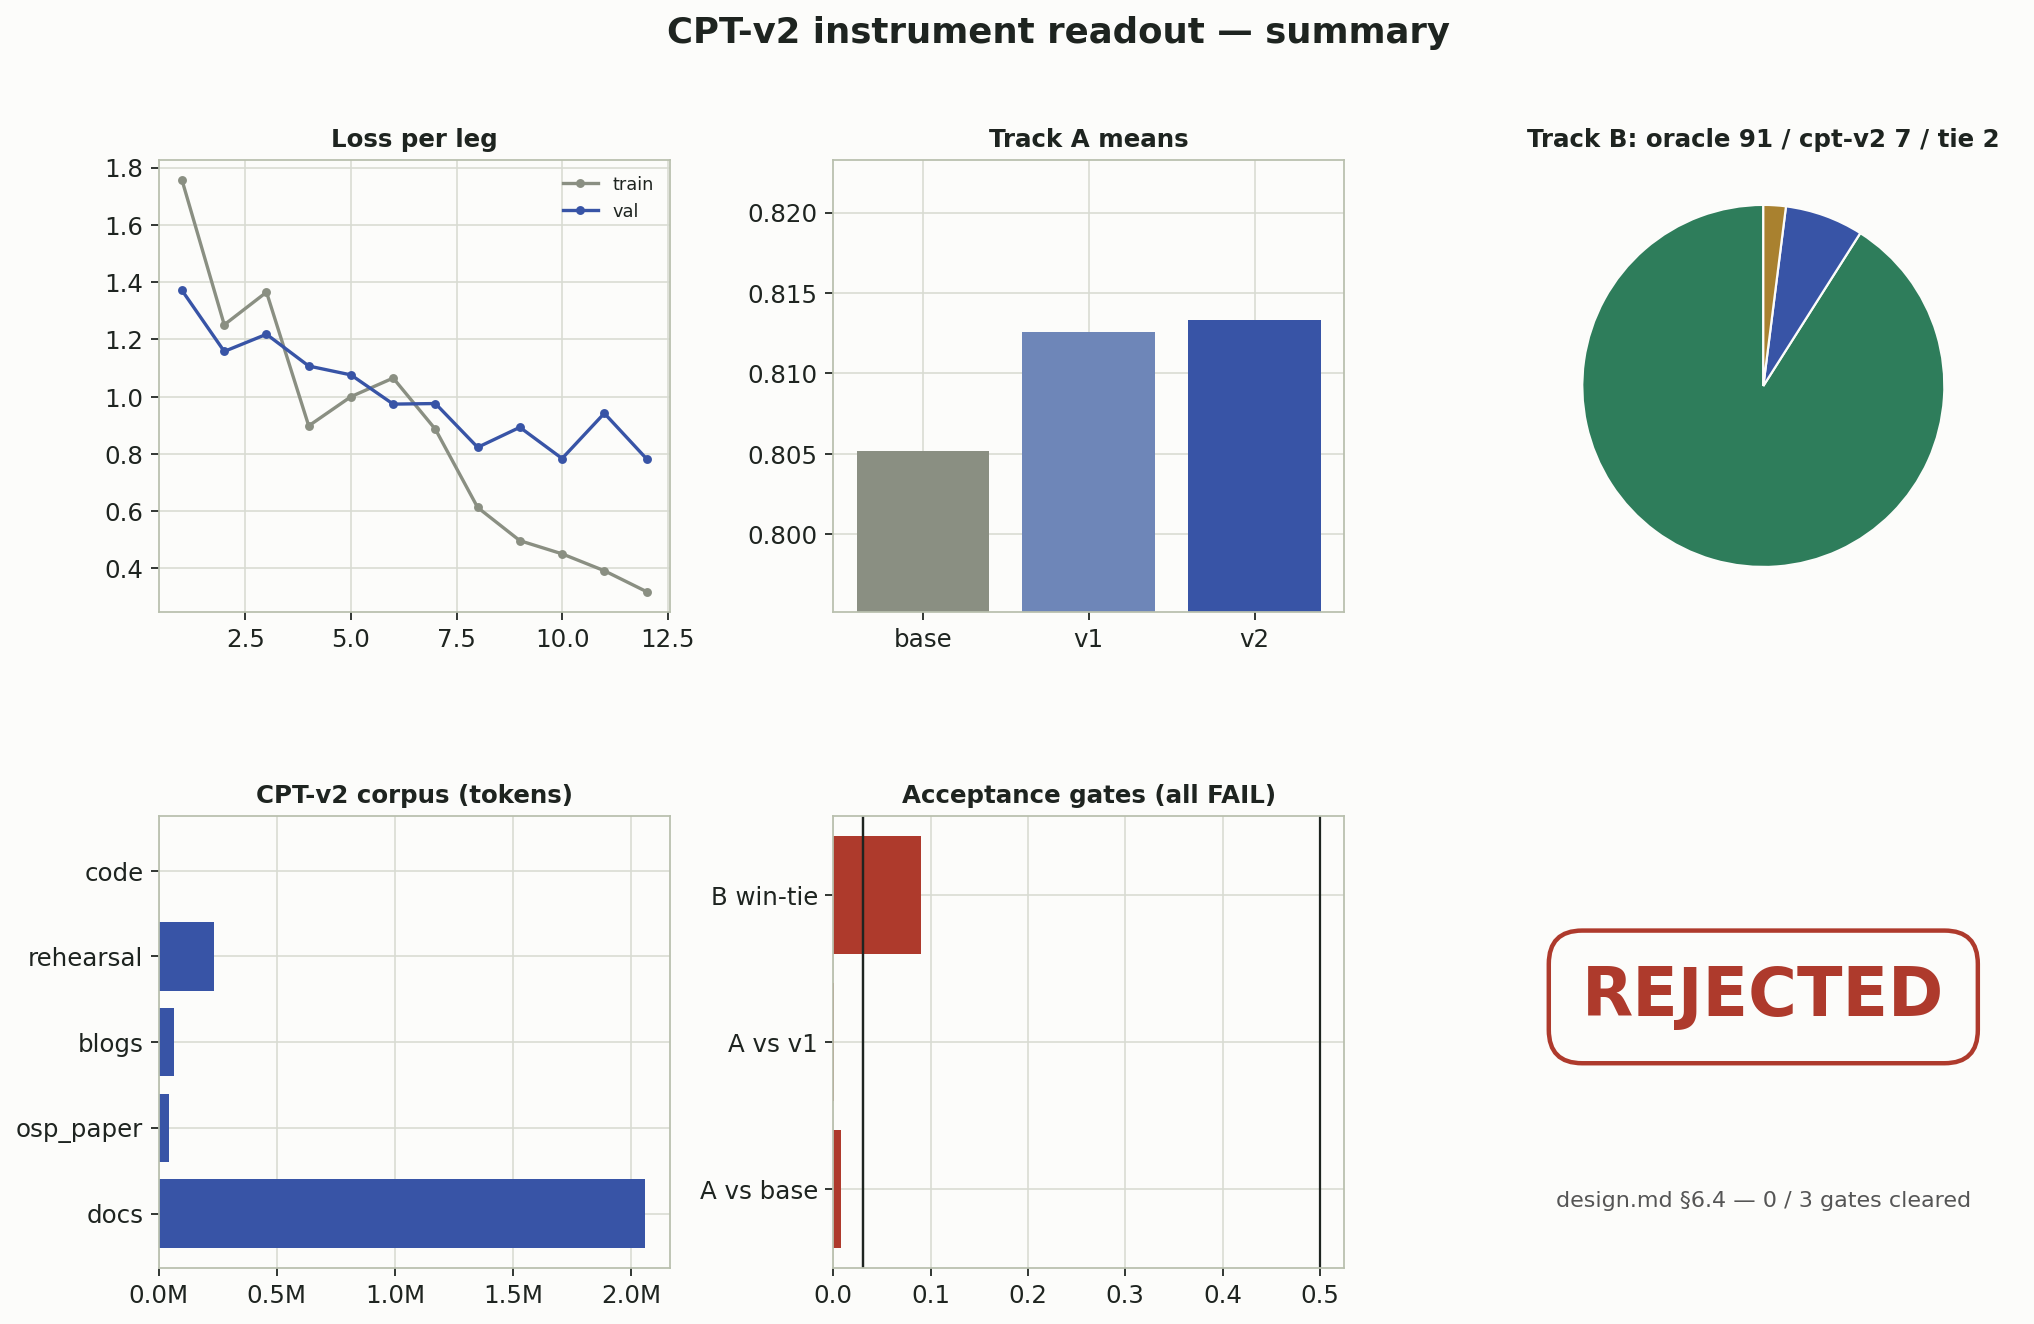
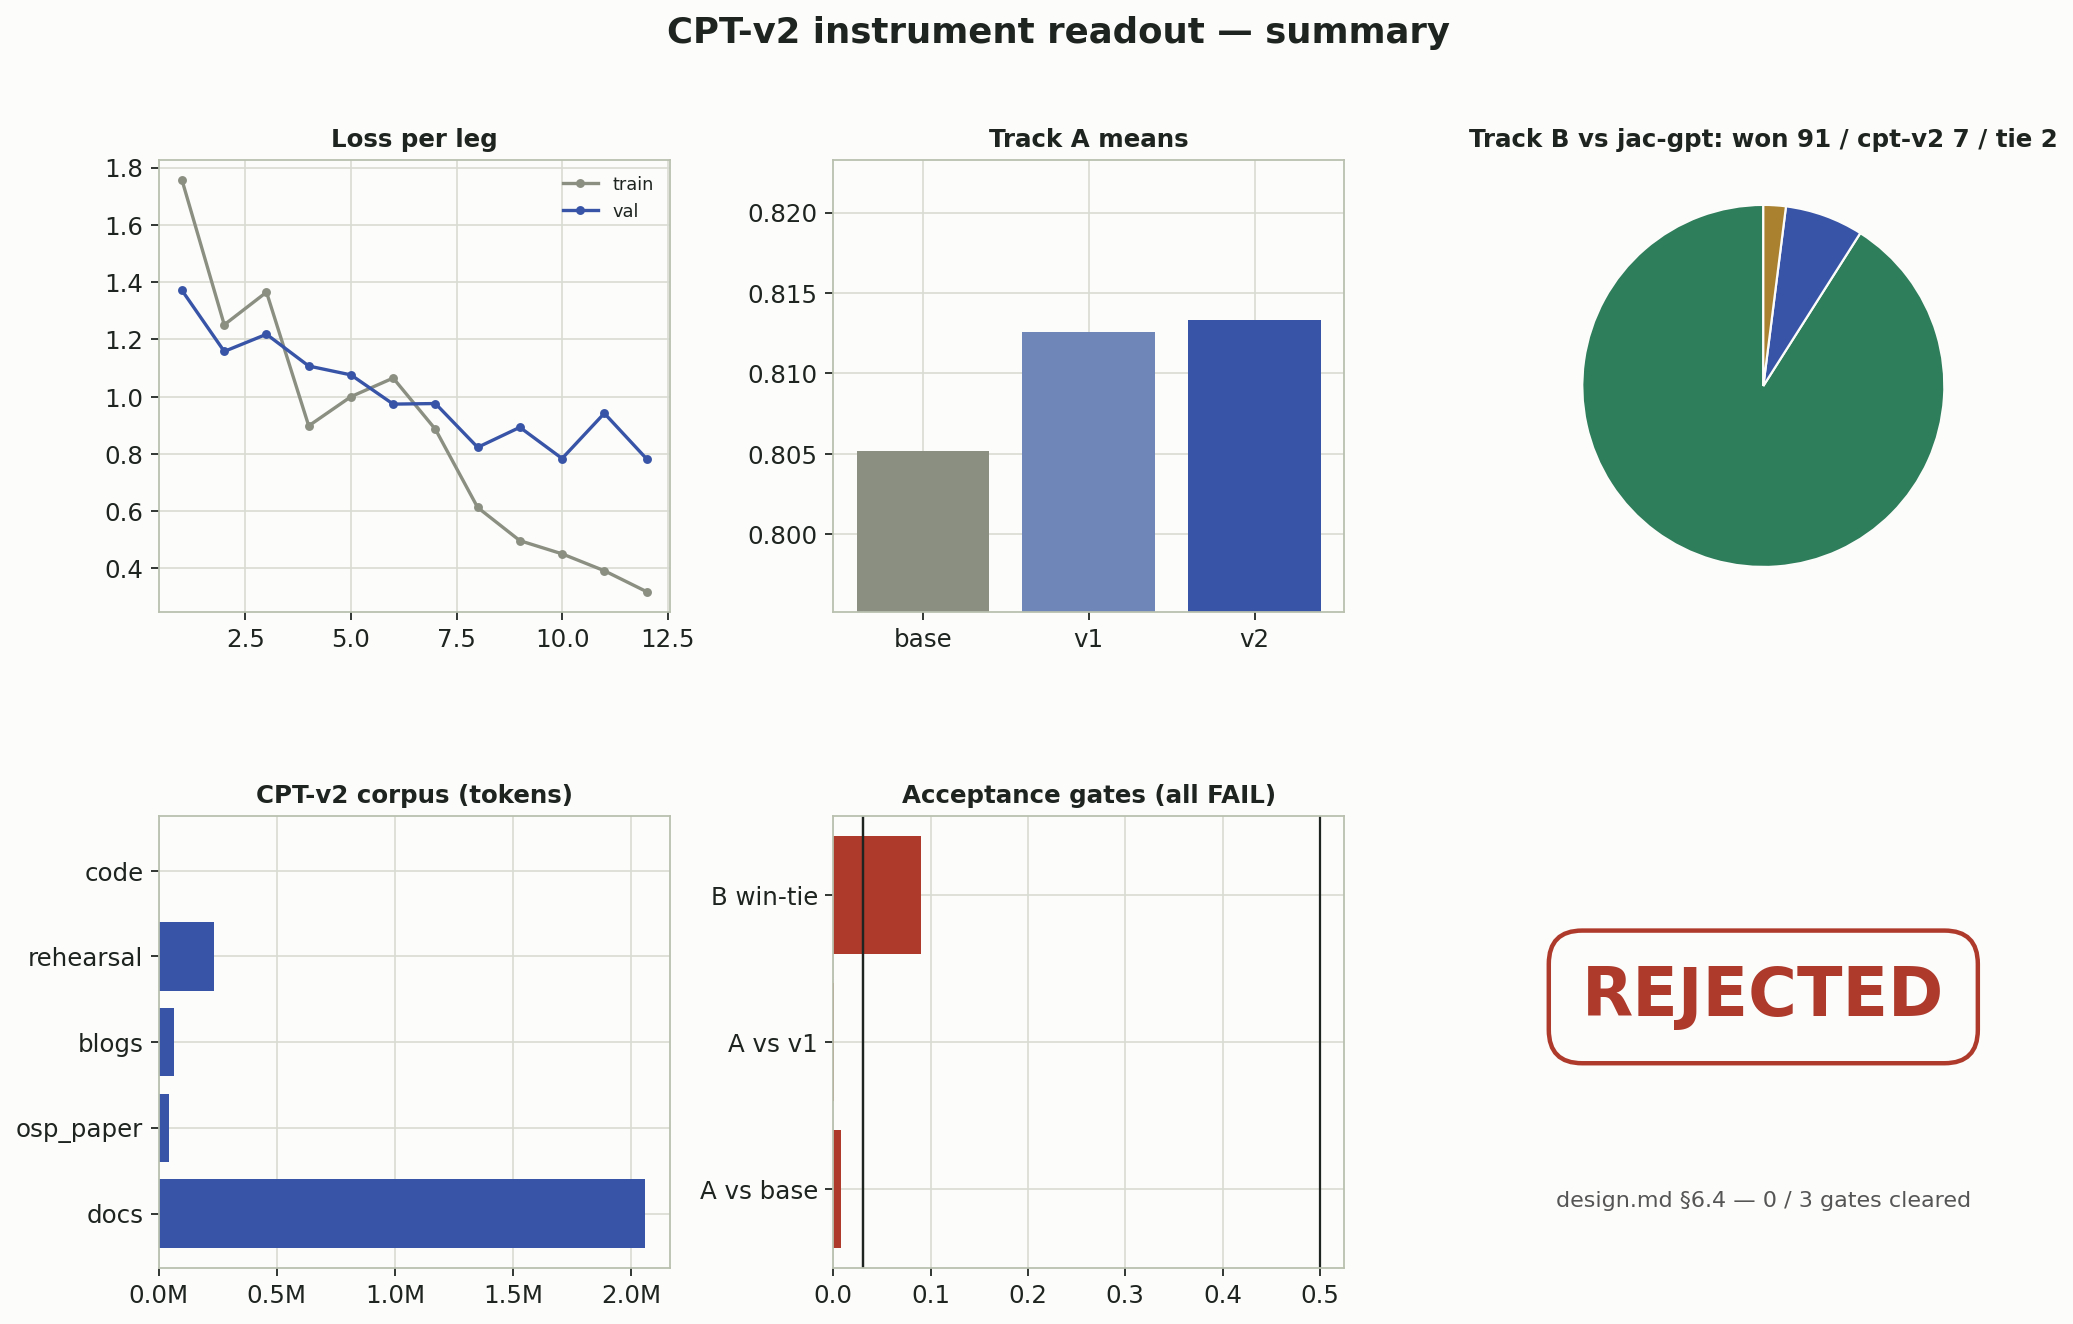
data: label jac-gpt explicitly + add 2 direct cpt-v2-vs-jac-gpt charts
Renamed generic 'oracle' labels to 'jac-gpt' across chart titles/axes/
legends so the comparison is explicit rather than implied. Added
21_gap_to_jacgpt.png (mean cosine distance from jac-gpt per model) and
22_cptv2_vs_jacgpt_head_to_head.png (both tracks, cpt-v2 vs jac-gpt only,
side by side) -- 22 charts total now.

diff --git a/03-new/cpt_train/eval_v2/make_charts.py b/03-new/cpt_train/eval_v2/make_charts.py
@@ -282,7 +282,7 @@ def chart_track_a_means(d):
     ax.hlines(req_v1, 0.65, 1.35, color=BAD, linestyle="--")
     ax.text(1.35, req_v1, f" need≥{req_v1:.4f}", color=BAD, va="center", fontsize=9)
     ax.set_ylim(min(vals) - 0.01, max(req_base, req_v1) + 0.015)
-    ax.set_ylabel("mean cosine-to-oracle")
+    ax.set_ylabel("mean cosine-to-jac-gpt")
     ax.set_title("Track A: mean cosine similarity vs. required +0.03 margin")
     save(fig, "10_track_a_means")
 
@@ -343,8 +343,8 @@ def chart_track_a_boxplot(d):
     for patch, color in zip(bp["boxes"], [BASE, V1, V2]):
         patch.set_facecolor(color)
         patch.set_alpha(0.75)
-    ax.set_ylabel("cosine-to-oracle score")
-    ax.set_title("Distribution of cosine-to-oracle scores, all 100 questions")
+    ax.set_ylabel("cosine-to-jac-gpt score")
+    ax.set_title("Distribution of cosine-to-jac-gpt scores, all 100 questions")
     save(fig, "14_track_a_boxplot")
 
 
@@ -360,8 +360,8 @@ def chart_track_a_scatter_v1_v2(d):
     ax.scatter(v1[~above], v2[~above], color=BASE, alpha=0.75, s=32, label=f"cpt-v1 wins ({(~above).sum()})")
     ax.set_xlim(lo, hi)
     ax.set_ylim(lo, hi)
-    ax.set_xlabel("cpt-v1 cosine-to-oracle")
-    ax.set_ylabel("cpt-v2 cosine-to-oracle")
+    ax.set_xlabel("cpt-v1 cosine-to-jac-gpt")
+    ax.set_ylabel("cpt-v2 cosine-to-jac-gpt")
     ax.set_title("Per-question cosine score: cpt-v1 vs cpt-v2 (points scatter evenly → coin flip)")
     ax.legend(loc="upper left", frameon=False)
     ax.set_aspect("equal")
@@ -375,7 +375,7 @@ def chart_track_a_scatter_v1_v2(d):
 def chart_track_b_outcome_bar(d):
     agg = d["track_b_agg"]
     total = agg["total"]
-    segs = [("oracle wins", agg["oracle_wins"], ORACLE), ("cpt-v2 wins", agg["cpt_v2_wins"], V2), ("ties", agg["ties"], TIE)]
+    segs = [("jac-gpt wins", agg["oracle_wins"], ORACLE), ("cpt-v2 wins", agg["cpt_v2_wins"], V2), ("ties", agg["ties"], TIE)]
     fig, ax = plt.subplots(figsize=(10, 2.4))
     left = 0
     for label, val, color in segs:
@@ -398,7 +398,7 @@ def chart_track_b_outcome_bar(d):
 def chart_track_b_pie(d):
     agg = d["track_b_agg"]
     vals = [agg["oracle_wins"], agg["cpt_v2_wins"], agg["ties"]]
-    labels = ["oracle wins", "cpt-v2 wins", "ties"]
+    labels = ["jac-gpt wins", "cpt-v2 wins", "ties"]
     colors = [ORACLE, V2, TIE]
     fig, ax = plt.subplots(figsize=(6.5, 6.5))
     wedges, _, autotexts = ax.pie(
@@ -418,7 +418,7 @@ def chart_honest_gap_scatter(d):
     ta_by_id = {row_id: row for row_id, row in d["track_a"].items()}
     lanes = {"oracle": 2, "tie": 1, "cpt_v2": 0}
     lane_colors = {"oracle": ORACLE, "tie": TIE, "cpt_v2": V2}
-    lane_labels = {"oracle": "oracle won (blind)", "tie": "tie", "cpt_v2": "cpt-v2 won (blind)"}
+    lane_labels = {"oracle": "jac-gpt won (blind)", "tie": "tie", "cpt_v2": "cpt-v2 won (blind)"}
     rng = np.random.default_rng(7)
     fig, ax = plt.subplots(figsize=(11, 5))
     outlier_id = "b003-q-any-inference"
@@ -437,7 +437,7 @@ def chart_honest_gap_scatter(d):
             ax.annotate("b003-q-any-inference: 0.9355 cosine\n(2nd-highest of all 100) — lost blind",
                         (cosine, lane + jitter), textcoords="offset points", xytext=(-160, 18), fontsize=9, fontweight="bold")
     ax.set_yticks(list(lanes.values()), [lane_labels[k] for k in lanes])
-    ax.set_xlabel("cpt-v2 cosine-to-oracle score")
+    ax.set_xlabel("cpt-v2 cosine-to-jac-gpt score")
     ax.set_title("Honest gap: cosine score vs. what the blind judge actually decided (n=100)")
     save(fig, "18_honest_gap_scatter")
 
@@ -493,7 +493,7 @@ def chart_summary_dashboard(d):
     vals = [agg["oracle_wins"], agg["cpt_v2_wins"], agg["ties"]]
     ax3.pie(vals, colors=[ORACLE, V2, TIE], startangle=90,
             wedgeprops=dict(edgecolor=PAPER, linewidth=1))
-    ax3.set_title(f"Track B: oracle {agg['oracle_wins']} / cpt-v2 {agg['cpt_v2_wins']} / tie {agg['ties']}", fontsize=11)
+    ax3.set_title(f"Track B vs jac-gpt: won {agg['oracle_wins']} / cpt-v2 {agg['cpt_v2_wins']} / tie {agg['ties']}", fontsize=11)
 
     ax4 = fig.add_subplot(gs[1, 0])
     sources = ["docs", "osp_paper", "blogs", "rehearsal", "code"]
@@ -523,6 +523,55 @@ def chart_summary_dashboard(d):
     save(fig, "20_summary_dashboard")
 
 
+# ============================================================
+# 21-22: direct cpt-v2 vs jac-gpt comparison
+# ============================================================
+
+def chart_gap_to_jacgpt(d):
+    base, v1, v2 = track_a_means(d["track_a"])
+    labels = ["base", "cpt-v1", "cpt-v2"]
+    gaps = [1 - base, 1 - v1, 1 - v2]
+    colors = [BASE, V1, V2]
+    fig, ax = plt.subplots(figsize=(7.5, 6))
+    bars = ax.bar(labels, gaps, color=colors, width=0.55)
+    for b, g in zip(bars, gaps):
+        ax.text(b.get_x() + b.get_width() / 2, g + 0.0015, f"{g:.4f}", ha="center", fontweight="bold")
+    ax.set_ylabel("mean cosine distance from jac-gpt's answer (lower = closer)")
+    ax.set_title("Gap to jac-gpt, by model")
+    save(fig, "21_gap_to_jacgpt")
+
+
+def chart_cptv2_vs_jacgpt_head_to_head(d):
+    base, v1, v2 = track_a_means(d["track_a"])
+    agg = d["track_b_agg"]
+    fig, axes = plt.subplots(1, 2, figsize=(13, 5.5))
+
+    ax = axes[0]
+    ax.bar(["cpt-v2"], [v2], color=V2, width=0.4)
+    ax.axhline(1.0, color=ORACLE, linestyle="--", linewidth=1.6, label="jac-gpt (self-similarity = 1.0)")
+    ax.text(0, v2 + 0.01, f"{v2:.4f}", ha="center", fontweight="bold")
+    ax.set_ylim(0, 1.08)
+    ax.set_ylabel("mean cosine-to-jac-gpt")
+    ax.set_title("Track A: cpt-v2 vs jac-gpt")
+    ax.legend(loc="lower center", frameon=False)
+
+    ax2 = axes[1]
+    win_or_tie = agg["cpt_v2_wins"] + agg["ties"]
+    lose = agg["oracle_wins"]
+    ax2.bar(["cpt-v2\nwin-or-tie"], [win_or_tie], color=V2, width=0.4)
+    ax2.bar(["jac-gpt\nwins"], [lose], color=ORACLE, width=0.4)
+    for i, v in enumerate([win_or_tie, lose]):
+        ax2.text(i, v + 1.5, str(v), ha="center", fontweight="bold")
+    ax2.axhline(50, color=BAD, linestyle="--", linewidth=1.4, label="50/50 line")
+    ax2.set_ylim(0, 100)
+    ax2.set_ylabel("of 100 blind judgments")
+    ax2.set_title("Track B: cpt-v2 vs jac-gpt")
+    ax2.legend(loc="upper center", frameon=False)
+
+    fig.suptitle("cpt-v2 vs jac-gpt, both tracks side by side", fontsize=15, fontweight="bold")
+    save(fig, "22_cptv2_vs_jacgpt_head_to_head")
+
+
 def main():
     d = load()
     print("Generating CPT-v2 matplotlib chart set...")
@@ -546,6 +595,8 @@ def main():
     chart_honest_gap_scatter(d)
     chart_acceptance_gauges(d)
     chart_summary_dashboard(d)
+    chart_gap_to_jacgpt(d)
+    chart_cptv2_vs_jacgpt_head_to_head(d)
     pngs = sorted(CHARTS_DIR.glob("*.png"))
     print(f"\n{len(pngs)} charts written to {CHARTS_DIR.relative_to(ROOT)}/")
 

diff --git a/03-new/results/cpt-v2/results.md b/03-new/results/cpt-v2/results.md
@@ -92,6 +92,18 @@ The chart that explains why Track A and Track B tell such different-looking stor
 
 ---
 
+## Direct comparison to jac-gpt
+
+### `21_gap_to_jacgpt.png` — mean distance from jac-gpt's answer, by model
+
+Same Track A numbers, reframed as a gap instead of a similarity: 1 − cosine, lower = closer to jac-gpt. base 0.1949, cpt-v1 0.1874, cpt-v2 0.1867. cpt-v2 closes some of the gap to jac-gpt relative to base, but the cpt-v1 → cpt-v2 improvement is 0.0007 — a rounding error, not a second round of real progress.
+
+### `22_cptv2_vs_jacgpt_head_to_head.png` — both tracks, cpt-v2 vs jac-gpt only
+
+The two tracks side by side with everything else stripped out. Left: cpt-v2's mean cosine (0.8133) against jac-gpt's self-similarity ceiling (1.0, dashed) — a real, sizeable remaining gap. Right: the actual blind-judged outcome, cpt-v2 win-or-tie (9) vs jac-gpt wins (91), against the 50/50 line. This is the single clearest "did CPT-v2 catch up to jac-gpt" chart in the set, and the answer is no.
+
+---
+
 ## Verdict
 
 ### `19_acceptance_gauges.png` — the three gates, side by side
